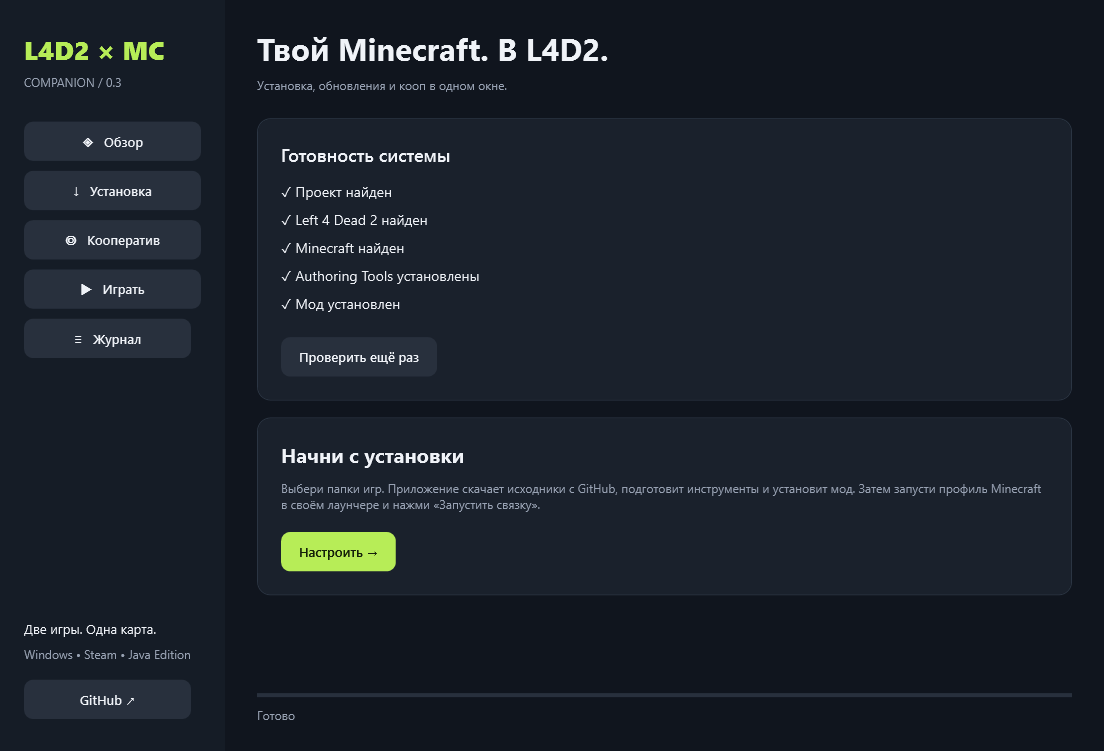
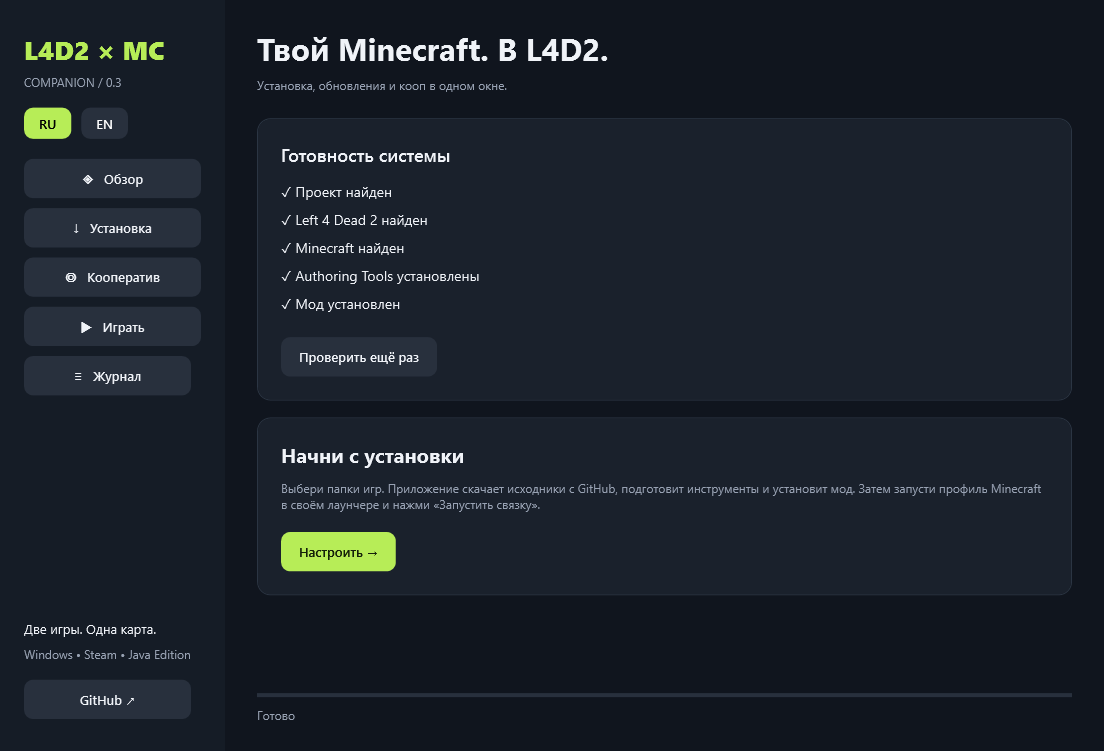
Add persistent Russian and English language switching to companion

diff --git a/companion/MainWindow.xaml b/companion/MainWindow.xaml
@@ -1,7 +1,8 @@
 <Window x:Class="L4D2MC.Companion.MainWindow" xmlns="http://schemas.microsoft.com/winfx/2006/xaml/presentation" xmlns:x="http://schemas.microsoft.com/winfx/2006/xaml" Title="L4D2 × Minecraft" Width="1120" Height="790" MinWidth="950" MinHeight="650" Background="#10151E" Foreground="#F0F3F8" WindowStartupLocation="CenterScreen">
  <Grid Background="#10151E" TextOptions.TextRenderingMode="Grayscale"><Grid.ColumnDefinitions><ColumnDefinition Width="225"/><ColumnDefinition/></Grid.ColumnDefinitions>
   <Border Background="#151C26" Padding="24,32"><DockPanel LastChildFill="True">
-   <StackPanel DockPanel.Dock="Top"><TextBlock Text="L4D2 × MC" FontSize="26" FontWeight="Black" Foreground="{StaticResource Accent}"/><TextBlock Text="COMPANION / 0.3" Style="{StaticResource Label}" Margin="0,7,0,32"/>
+   <StackPanel DockPanel.Dock="Top"><TextBlock Text="L4D2 × MC" FontSize="26" FontWeight="Black" Foreground="{StaticResource Accent}"/><TextBlock Text="COMPANION / 0.3" Style="{StaticResource Label}" Margin="0,7,0,18"/>
+    <StackPanel Orientation="Horizontal" Margin="0,0,0,20"><Button x:Name="Russian" Content="RU" Tag="ru" Click="ChangeLanguage" Padding="15,7"/><Button x:Name="English" Content="EN" Tag="en" Click="ChangeLanguage" Padding="15,7"/></StackPanel>
     <Button Content="◈   Обзор" Tag="Home" Click="Navigate" Margin="0,0,0,10"/><Button Content="↓   Установка" Tag="Install" Click="Navigate" Margin="0,0,0,10"/><Button Content="◎   Кооператив" Tag="Coop" Click="Navigate" Margin="0,0,0,10"/><Button Content="▶   Играть" Tag="Play" Click="Navigate" Margin="0,0,0,10"/><Button Content="≡   Журнал" Tag="Logs" Click="Navigate"/>
    </StackPanel><StackPanel DockPanel.Dock="Bottom" VerticalAlignment="Bottom"><TextBlock Text="Две игры. Одна карта." FontSize="13"/><TextBlock Text="Windows • Steam • Java Edition" Style="{StaticResource Label}" TextWrapping="Wrap" Margin="0,8,0,18"/><Button Content="GitHub ↗" Click="GitHub"/></StackPanel>
   </DockPanel></Border>

diff --git a/companion/MainWindow.xaml.cs b/companion/MainWindow.xaml.cs
@@ -1,4 +1,5 @@
 using System;
+using System.Collections.Generic;
 using System.Diagnostics;
 using System.IO;
 using System.Threading.Tasks;
@@ -10,30 +11,43 @@ using System.Windows.Media.Imaging;
 namespace L4D2MC.Companion {
  public partial class MainWindow : Window {
   Settings settings; bool busy; string logPath;
-  public MainWindow(){InitializeComponent(); settings=Settings.Load();Paths.Detect(settings);Directory.CreateDirectory(Settings.Data);logPath=Path.Combine(Settings.Data,"companion.log");Fill();RefreshHealth();Closing+=(s,e)=>{if(busy){e.Cancel=true;Status.Text="Дождись завершения операции. Окно можно свернуть.";}};Loaded+=Preview;}
+  readonly Dictionary<DependencyObject,string> originalText=new Dictionary<DependencyObject,string>();
+  void Localize(DependencyObject node){
+   if(node is TextBlock text && text.Name!="Health" && text.Name!="RoomState" && text.Name!="Status"){
+    if(!originalText.ContainsKey(text))originalText[text]=text.Text;
+    text.Text=Localization.Text(originalText[text]);
+   }else if(node is Button button && button.Content is string caption){
+    if(!originalText.ContainsKey(button))originalText[button]=caption;
+    button.Content=Localization.Text(originalText[button]);
+   }
+   foreach(var child in LogicalTreeHelper.GetChildren(node))if(child is DependencyObject element)Localize(element);
+  }
+  void ApplyLanguage(string language){Localization.Language=language=="en"?"en":"ru";Localize(this);Status.Text=Localization.Text(Status.Text);RefreshHealth();Russian.Background=Localization.Language=="ru"?(Brush)FindResource("Accent"):new SolidColorBrush(Color.FromRgb(40,48,61));English.Background=Localization.Language=="en"?(Brush)FindResource("Accent"):new SolidColorBrush(Color.FromRgb(40,48,61));Russian.Foreground=Localization.Language=="ru"?Brushes.Black:Brushes.White;English.Foreground=Localization.Language=="en"?Brushes.Black:Brushes.White;}
+  void ChangeLanguage(object s,RoutedEventArgs e){settings.Language=(string)((Button)s).Tag;settings.Save();ApplyLanguage(settings.Language);}
+  public MainWindow(){InitializeComponent(); settings=Settings.Load();Paths.Detect(settings);Directory.CreateDirectory(Settings.Data);logPath=Path.Combine(Settings.Data,"companion.log");Fill();ApplyLanguage(settings.Language);Closing+=(s,e)=>{if(busy){e.Cancel=true;Status.Text=Localization.Text("Дождись завершения операции. Окно можно свернуть.");}};Loaded+=Preview;}
   void Fill(){ProjectPath.Text=settings.Project;GamePath.Text=settings.Game;MinecraftPath.Text=settings.Minecraft;Player.Text=settings.Player;ViewWidth.Text=settings.Width.ToString();ViewHeight.Text=settings.Height.ToString();Address.ItemsSource=Paths.Addresses();if(Address.Items.Count>0)Address.SelectedIndex=0;}
-  void Save(){settings.Project=ProjectPath.Text.Trim();settings.Game=GamePath.Text.Trim();settings.Minecraft=MinecraftPath.Text.Trim();settings.Player=Player.Text.Trim();if(!Path.IsPathRooted(settings.Project))throw new ArgumentException("Укажи полный путь к папке проекта.");if(!int.TryParse(ViewWidth.Text,out var w)||w<320||w>3840||!int.TryParse(ViewHeight.Text,out var h)||h<240||h>2160)throw new ArgumentException("Разрешение: от 320×240 до 3840×2160.");settings.Width=w;settings.Height=h;settings.Save();}
+  void Save(){settings.Project=ProjectPath.Text.Trim();settings.Game=GamePath.Text.Trim();settings.Minecraft=MinecraftPath.Text.Trim();settings.Player=Player.Text.Trim();if(!Path.IsPathRooted(settings.Project))throw new ArgumentException(Localization.Text("Укажи полный путь к папке проекта."));if(!int.TryParse(ViewWidth.Text,out var w)||w<320||w>3840||!int.TryParse(ViewHeight.Text,out var h)||h<240||h>2160)throw new ArgumentException(Localization.Text("Разрешение: от 320×240 до 3840×2160."));settings.Width=w;settings.Height=h;settings.Save();}
   void Log(string line){Dispatcher.Invoke(()=>{LogText.AppendText(line+Environment.NewLine);LogText.ScrollToEnd();File.AppendAllText(logPath,DateTime.Now.ToString("HH:mm:ss ")+line+Environment.NewLine);});}
   Downloads Downloader()=>new Downloads(Path.Combine(Settings.Data,"downloads"),Log,v=>Dispatcher.Invoke(()=>Progress.Value=v));
-  async Task Work(string title,Func<Task> action){if(busy)return;busy=true;Status.Text=title;Progress.Value=0;try{Save();await action();Status.Text="Готово • "+title;Progress.Value=100;}catch(Exception e){Status.Text=e.Message;Log("Ошибка: "+e.Message);Show("Logs");}finally{busy=false;RefreshHealth();}}
+  async Task Work(string title,Func<Task> action){if(busy)return;busy=true;Status.Text=title;Progress.Value=0;try{Save();await action();Status.Text=Localization.Text("Готово • ")+Localization.Text(title);Progress.Value=100;}catch(Exception e){Status.Text=e.Message;Log(Localization.Text("Ошибка: ")+e.Message);Show("Logs");}finally{busy=false;RefreshHealth();}}
   void Show(string page){foreach(var p in new[]{Home,Install,Coop,Play,Logs})p.Visibility=p.Name==page?Visibility.Visible:Visibility.Collapsed;}
   void Navigate(object s,RoutedEventArgs e)=>Show((string)((Button)s).Tag);
-  void RefreshHealth(){Health.Text=(Paths.Project(settings.Project)?"✓ Проект найден":"○ Проект ещё не скачан")+"\n"+(Paths.Game(settings.Game)?"✓ Left 4 Dead 2 найден":"○ Укажи папку Left 4 Dead 2")+"\n"+(Paths.Minecraft(settings.Minecraft)?"✓ Minecraft найден":"○ Укажи папку Minecraft")+"\n"+(File.Exists(Path.Combine(settings.Game??"","bin","studiomdl.exe"))?"✓ Authoring Tools установлены":"○ Нужны Steam Authoring Tools")+"\n"+(File.Exists(Path.Combine(settings.Project,"backups","passthrough-install.json"))?"✓ Мод установлен":"○ Мод ещё не установлен");RoomState.Text=Room.Describe(settings.Project);}
+  void RefreshHealth(){Health.Text=(Paths.Project(settings.Project)?Localization.Text("✓ Проект найден"):Localization.Text("○ Проект ещё не скачан"))+"\n"+(Paths.Game(settings.Game)?Localization.Text("✓ Left 4 Dead 2 найден"):Localization.Text("○ Укажи папку Left 4 Dead 2"))+"\n"+(Paths.Minecraft(settings.Minecraft)?Localization.Text("✓ Minecraft найден"):Localization.Text("○ Укажи папку Minecraft"))+"\n"+(File.Exists(Path.Combine(settings.Game??"","bin","studiomdl.exe"))?Localization.Text("✓ Authoring Tools установлены"):Localization.Text("○ Нужны Steam Authoring Tools"))+"\n"+(File.Exists(Path.Combine(settings.Project,"backups","passthrough-install.json"))?Localization.Text("✓ Мод установлен"):Localization.Text("○ Мод ещё не установлен"));RoomState.Text=Room.Describe(settings.Project);}
   void Refresh(object s,RoutedEventArgs e){if(busy)return;try{Save();RefreshHealth();}catch(Exception ex){Status.Text=ex.Message;}}
   void Detect(object s,RoutedEventArgs e){if(busy)return;Paths.Detect(settings);Fill();RefreshHealth();}
-  void Browse(object s,RoutedEventArgs e){if(busy)return;using(var dialog=new System.Windows.Forms.FolderBrowserDialog()){dialog.Description="Выбери папку";if(dialog.ShowDialog()==System.Windows.Forms.DialogResult.OK){var tag=(string)((Button)s).Tag;(tag=="Project"?ProjectPath:tag=="Game"?GamePath:MinecraftPath).Text=dialog.SelectedPath;}}}
-  async void Download(object s,RoutedEventArgs e)=>await Work("Обновление проекта",()=>Downloader().DownloadProject(settings.Project));
-  async void InstallMod(object s,RoutedEventArgs e)=>await Work("Установка мода",async()=>{if(!Paths.Project(settings.Project))await Downloader().DownloadProject(settings.Project);await new Bootstrap(settings,Downloader(),Log).Install();});
-  async void HostRoom(object s,RoutedEventArgs e)=>await Work("Комната создана",()=>{RequireProject();Clipboard.SetText(Room.Create(settings.Project,Address.Text.Trim()));Log("Приглашение скопировано. Передай его другу в общей LAN/VPN сети.");return Task.CompletedTask;});
-  async void JoinRoom(object s,RoutedEventArgs e)=>await Work("Подключение сохранено",()=>{RequireProject();Room.Join(settings.Project,Invite.Password,settings.Player);Invite.Clear();Log("Режим гостя сохранён для твоего ника: "+settings.Player);return Task.CompletedTask;});
-  async void Solo(object s,RoutedEventArgs e)=>await Work("Одиночный режим",()=>{RequireProject();Room.Off(settings.Project);return Task.CompletedTask;});
-  void RequireProject(){if(!Paths.Project(settings.Project))throw new InvalidOperationException("Сначала скачай проект в разделе установки.");}
-  async void Launch(object s,RoutedEventArgs e)=>await Work("Мост работает",async()=>{RequireProject();if(!File.Exists(Path.Combine(settings.Project,"backups","passthrough-install.json")))throw new InvalidOperationException("Сначала установи мод.");Show("Logs");await new Bootstrap(settings,Downloader(),Log).LaunchRunner().Run("powershell.exe","-NoProfile","-ExecutionPolicy","Bypass","-File",Path.Combine(settings.Project,"Launch-Minecraft.ps1"),"-Game",settings.Game,"-Width",settings.Width.ToString(),"-Height",settings.Height.ToString(),"-Borderless");});
+  void Browse(object s,RoutedEventArgs e){if(busy)return;using(var dialog=new System.Windows.Forms.FolderBrowserDialog()){dialog.Description=Localization.Text("Выбери папку");if(dialog.ShowDialog()==System.Windows.Forms.DialogResult.OK){var tag=(string)((Button)s).Tag;(tag=="Project"?ProjectPath:tag=="Game"?GamePath:MinecraftPath).Text=dialog.SelectedPath;}}}
+  async void Download(object s,RoutedEventArgs e)=>await Work(Localization.Text("Обновление проекта"),()=>Downloader().DownloadProject(settings.Project));
+  async void InstallMod(object s,RoutedEventArgs e)=>await Work(Localization.Text("Установка мода"),async()=>{if(!Paths.Project(settings.Project))await Downloader().DownloadProject(settings.Project);await new Bootstrap(settings,Downloader(),Log).Install();});
+  async void HostRoom(object s,RoutedEventArgs e)=>await Work(Localization.Text("Комната создана"),()=>{RequireProject();Clipboard.SetText(Room.Create(settings.Project,Address.Text.Trim()));Log(Localization.Text("Приглашение скопировано. Передай его другу в общей LAN/VPN сети."));return Task.CompletedTask;});
+  async void JoinRoom(object s,RoutedEventArgs e)=>await Work(Localization.Text("Подключение сохранено"),()=>{RequireProject();Room.Join(settings.Project,Invite.Password,settings.Player);Invite.Clear();Log(Localization.Text("Режим гостя сохранён для твоего ника: ")+settings.Player);return Task.CompletedTask;});
+  async void Solo(object s,RoutedEventArgs e)=>await Work(Localization.Text("Одиночный режим"),()=>{RequireProject();Room.Off(settings.Project);return Task.CompletedTask;});
+  void RequireProject(){if(!Paths.Project(settings.Project))throw new InvalidOperationException(Localization.Text("Сначала скачай проект в разделе установки."));}
+  async void Launch(object s,RoutedEventArgs e)=>await Work(Localization.Text("Мост работает"),async()=>{RequireProject();if(!File.Exists(Path.Combine(settings.Project,"backups","passthrough-install.json")))throw new InvalidOperationException(Localization.Text("Сначала установи мод."));Show("Logs");await new Bootstrap(settings,Downloader(),Log).LaunchRunner().Run("powershell.exe","-NoProfile","-ExecutionPolicy","Bypass","-File",Path.Combine(settings.Project,"Launch-Minecraft.ps1"),"-Game",settings.Game,"-Width",settings.Width.ToString(),"-Height",settings.Height.ToString(),"-Borderless");});
   static void Open(string target)=>Process.Start(new ProcessStartInfo(target){UseShellExecute=true});
   void GitHub(object s,RoutedEventArgs e)=>Open("https://github.com/Rizen1322/l4d2-minecraft");
   void Authoring(object s,RoutedEventArgs e)=>Open("steam://install/563");
-  void OpenMinecraft(object s,RoutedEventArgs e){var legacy=Path.Combine(Environment.GetFolderPath(Environment.SpecialFolder.ApplicationData),@".tlauncher\legacy\Minecraft\LL.exe");if(File.Exists(legacy))Open(legacy);else if(Directory.Exists(MinecraftPath.Text))Open(MinecraftPath.Text);else Status.Text="Укажи папку Minecraft в разделе установки.";}
+  void OpenMinecraft(object s,RoutedEventArgs e){var legacy=Path.Combine(Environment.GetFolderPath(Environment.SpecialFolder.ApplicationData),@".tlauncher\legacy\Minecraft\LL.exe");if(File.Exists(legacy))Open(legacy);else if(Directory.Exists(MinecraftPath.Text))Open(MinecraftPath.Text);else Status.Text=Localization.Text("Укажи папку Minecraft в разделе установки.");}
   void OpenLog(object s,RoutedEventArgs e){if(File.Exists(logPath))Open(logPath);}
-  void Preview(object s,RoutedEventArgs e){var args=Environment.GetCommandLineArgs();if(args.Length==3&&args[1]=="--preview"){Dispatcher.BeginInvoke(new Action(()=>{UpdateLayout();var visual=(FrameworkElement)Content;var bmp=new RenderTargetBitmap((int)visual.ActualWidth,(int)visual.ActualHeight,96,96,PixelFormats.Pbgra32);bmp.Render(visual);var png=new PngBitmapEncoder();png.Frames.Add(BitmapFrame.Create(bmp));using(var stream=File.Create(args[2]))png.Save(stream);Close();}),System.Windows.Threading.DispatcherPriority.ApplicationIdle);}}
+  void Preview(object s,RoutedEventArgs e){var args=Environment.GetCommandLineArgs();if(args.Length>=3&&args[1]=="--preview"){if(args.Length>=4)ApplyLanguage(args[3]);if(args.Length>=5)Show(args[4]);Dispatcher.BeginInvoke(new Action(()=>{UpdateLayout();var visual=(FrameworkElement)Content;var bmp=new RenderTargetBitmap((int)visual.ActualWidth,(int)visual.ActualHeight,96,96,PixelFormats.Pbgra32);bmp.Render(visual);var png=new PngBitmapEncoder();png.Frames.Add(BitmapFrame.Create(bmp));using(var stream=File.Create(args[2]))png.Save(stream);Close();}),System.Windows.Threading.DispatcherPriority.ApplicationIdle);}}
  }
 }

diff --git a/companion/Services/Localization.cs b/companion/Services/Localization.cs
@@ -1,0 +1,120 @@
+using System;
+using System.Collections.Generic;
+using System.Linq;
+
+namespace L4D2MC.Companion {
+ public static class Localization {
+  public static string Language="ru";
+  public static readonly IReadOnlyDictionary<string,string> English = Catalog.Split(new[]{'\r','\n'},StringSplitOptions.RemoveEmptyEntries).Select(l=>l.Split('|')).ToDictionary(p=>p[0],p=>p[1]);
+  static readonly KeyValuePair<string,string>[] Pairs=English.OrderByDescending(p=>Math.Max(p.Key.Length,p.Value.Length)).ToArray();
+  public static string Text(string value){
+   if(value==null)return null;
+   if(value.StartsWith("Готово • ",StringComparison.Ordinal)||value.StartsWith("Done • ",StringComparison.Ordinal))
+    return (Language=="en"?"Done • ":"Готово • ")+Text(value.Substring(value.IndexOf(" • ",StringComparison.Ordinal)+3));
+   // Accept either language so a visible status can switch without restarting a task.
+   foreach(var p in Pairs){
+    if(value.StartsWith(p.Key,StringComparison.Ordinal))return Language=="en"?p.Value+value.Substring(p.Key.Length):value;
+    if(value.StartsWith(p.Value,StringComparison.Ordinal))return Language=="en"?value:p.Key+value.Substring(p.Value.Length);
+   }
+   return value;
+  }
+  const string Catalog=@"1 / Запусти Minecraft|1 / Start Minecraft
+2 / Запусти связку|2 / Start the mashup
+Left 4 Dead 2 · папка с left4dead2.exe|Left 4 Dead 2 · folder containing left4dead2.exe
+Minecraft · папка с versions|Minecraft · folder containing versions
+Python, Java, Zig, ReShade и Squirrel готовы.|Python, Java, Zig, ReShade and Squirrel are ready.
+Архив превышает допустимый размер.|The archive exceeds the size limit.
+Архив пытается выйти за папку установки.|The archive tries to escape the installation folder.
+Архив содержит личные данные.|The archive contains private data.
+В папке установки обнаружена ссылка на другой каталог.|The installation folder contains a directory link.
+В своём лаунчере выбери L4D2MC-Fabric-26.3. Используй обычный вход в аккаунт. Приложение не запрашивает пароль Minecraft.|Select L4D2MC-Fabric-26.3 in your launcher and sign in normally. This app does not ask for your Minecraft password.
+Вернуться в одиночный режим|Switch to solo mode
+Версия проекта: |Project version: 
+Выбери адрес общей LAN/VPN сети. Приглашение содержит ключ комнаты — отправь его только другу.|Choose your shared LAN/VPN address. The invitation contains the room key — share it only with your friend.
+Выбери папки игр. Приложение скачает исходники с GitHub, подготовит инструменты и установит мод. Затем запусти профиль Minecraft в своём лаунчере и нажми «Запустить связку».|Choose your game folders. The app downloads the source from GitHub, prepares the tools and installs the mod. Then start the Minecraft profile in your launcher and click Start the mashup.
+Выбери папку|Choose a folder
+Высота|Height
+Готовность системы|System readiness
+Готово • |Done • 
+Готово|Ready
+Две игры. Одна карта.|Two games. One map.
+Для мода нужна отдельная папка проекта, не папка игры.|Choose a separate project folder, not a game folder.
+Дождись завершения операции. Окно можно свернуть.|Wait for the operation to finish. You can minimize this window.
+Журнал|Log
+Идём вдвоём|Better together
+Исходники проверены и обновлены. Сохранения и настройки комнаты сохранены.|Source verified and updated. Saves and room settings were preserved.
+Комната создана|Room created
+Контрольная сумма не совпадает: |Checksum mismatch: 
+Мост и L4D2 запустятся вместе. В коопе автоматически используется сохранённая комната. Оставь это окно открытым во время игры.|The bridge and L4D2 start together. Co-op uses your saved room settings. Keep this window open while playing.
+Мост работает|Bridge running
+На GitHub пока нет исходников с контрольной суммой.|No source release with a checksum was found on GitHub.
+Найти автоматически|Detect automatically
+Настроить →|Set up →
+Начни с установки|Start with setup
+Небезопасный путь архива.|Unsafe archive path.
+Нужны купленные игры и официальные L4D2 Authoring Tools. Перед установкой закрой обе игры. Инструменты скачиваются в папку проекта; аудио и текстуры берутся из твоих игр.|You need your own games and official L4D2 Authoring Tools. Close both games before installation. Tools are downloaded into the project; audio and textures come from your installed games.
+Обновление проекта|Updating project
+Одиночный режим|Solo mode
+Одиночная игра|Solo game
+Хост комнаты|Room host
+Гость • |Guest • 
+Открыть Minecraft / лаунчер|Open Minecraft / launcher
+Открыть файл журнала|Open log file
+Ошибка: |Error: 
+Папка установки не должна быть ссылкой.|The installation folder must not be a directory link.
+Папки|Folders
+Повреждён файл исходников: |Damaged source file: 
+Подключение сохранено|Connection saved
+Поехали|Let's play
+Приглашение скопировано. Передай его другу в общей LAN/VPN сети.|Invitation copied. Share it with your friend on the same LAN/VPN.
+Приглашение|Invitation
+Присоединиться к другу|Join a friend
+Проверить ещё раз|Check again
+Проект мода · отдельная папка|Mod project · separate folder
+Разрешение: от 320×240 до 3840×2160.|Resolution must be between 320×240 and 3840×2160.
+Режим гостя сохранён для твоего ника: |Guest mode saved for your nickname: 
+Скачать / обновить проект|Download / update project
+Скачать → собрать → установить|Download → build → install
+Скачивание оборвалось. Повторите попытку.|Download interrupted. Please try again.
+Скачивание: |Downloading: 
+Сначала скачай проект в разделе установки.|Download the project in Setup first.
+Сначала установи мод.|Install the mod first.
+Сначала установите Left 4 Dead 2 Authoring Tools в Steam. Кнопка есть в разделе установки.|Install Left 4 Dead 2 Authoring Tools in Steam first. The button is on the Setup page.
+Создать и скопировать приглашение|Create and copy invitation
+Создать комнату|Host a room
+Сохранить подключение|Save connection
+Твой Minecraft. В L4D2.|Your Minecraft. Inside L4D2.
+Твой собственный ник в L4D2 · не ник хоста|Your own L4D2 nickname · not the host's name
+Укажи папку Minecraft в разделе установки.|Choose your Minecraft folder in Setup.
+Укажи полный путь к папке проекта.|Enter an absolute path to the project folder.
+Укажите папки L4D2 и Minecraft.|Choose the L4D2 and Minecraft folders.
+Установить мод|Install mod
+Установка и обновления|Setup and updates
+Установка мода|Installing mod
+Установка, обновления и кооп в одном окне.|Setup, updates and co-op in one window.
+Шаг завершился с ошибкой |Operation failed with exit code 
+. Подробности — в журнале.|. See the log for details.
+Ширина|Width
+↓   Установка|↓   Setup
+≡   Журнал|≡   Log
+▶   Играть|▶   Play
+▶  Запустить связку|▶  Start the mashup
+◈   Обзор|◈   Overview
+○ Мод ещё не установлен|○ Mod not installed yet
+○ Нужны Steam Authoring Tools|○ Steam Authoring Tools required
+○ Проект ещё не скачан|○ Project not downloaded yet
+○ Укажи папку Left 4 Dead 2|○ Choose your Left 4 Dead 2 folder
+○ Укажи папку Minecraft|○ Choose your Minecraft folder
+◎   Кооператив|◎   Co-op
+✓ Authoring Tools установлены|✓ Authoring Tools installed
+✓ Left 4 Dead 2 найден|✓ Left 4 Dead 2 found
+✓ Minecraft найден|✓ Minecraft found
+✓ Мод установлен|✓ Mod installed
+✓ Проект найден|✓ Project found
+Выберите IPv4-адрес вашей LAN/VPN сети.|Choose an IPv4 address on your LAN/VPN.
+Введите собственный ник из L4D2.|Enter your own L4D2 nickname.
+Слишком длинное приглашение.|The invitation is too long.
+Не удалось прочитать код приглашения.|Could not read the invitation code.
+Некорректное приглашение.|Invalid invitation.";
+ }
+}

diff --git a/companion/Services/Core.cs b/companion/Services/Core.cs
@@ -18,6 +18,7 @@ namespace L4D2MC.Companion {
         public string Game {get;set;}="";
         public string Minecraft {get;set;}="";
         public string Player {get;set;}="";
+        public string Language {get;set;}="ru";
         public int Width {get;set;}=2560;
         public int Height {get;set;}=1440;
         public static string Data=Path.Combine(Environment.GetFolderPath(Environment.SpecialFolder.LocalApplicationData),"L4D2MC");
@@ -38,13 +39,13 @@ namespace L4D2MC.Companion {
         public static bool Minecraft(string p)=>!string.IsNullOrWhiteSpace(p)&&Directory.Exists(Path.Combine(p,"versions"));
         public static bool Project(string p)=>!string.IsNullOrWhiteSpace(p)&&File.Exists(Path.Combine(p,"Setup-L4D2MC.ps1"))&&File.Exists(Path.Combine(p,"passthrough","bridge.py"));
         public static string Child(string root,string relative) {
-            if(string.IsNullOrWhiteSpace(relative)||Path.IsPathRooted(relative)||relative.Contains(":"))throw new InvalidDataException("Небезопасный путь архива.");
+            if(string.IsNullOrWhiteSpace(relative)||Path.IsPathRooted(relative)||relative.Contains(":"))throw new InvalidDataException(Localization.Text("Небезопасный путь архива."));
             var basis=Path.GetFullPath(root).TrimEnd(Path.DirectorySeparatorChar)+Path.DirectorySeparatorChar;
-            if(Directory.Exists(root)&&(File.GetAttributes(root)&FileAttributes.ReparsePoint)!=0)throw new InvalidDataException("Папка установки не должна быть ссылкой.");
+            if(Directory.Exists(root)&&(File.GetAttributes(root)&FileAttributes.ReparsePoint)!=0)throw new InvalidDataException(Localization.Text("Папка установки не должна быть ссылкой."));
             var value=Path.GetFullPath(Path.Combine(basis,relative));
-            if(!value.StartsWith(basis,StringComparison.OrdinalIgnoreCase))throw new InvalidDataException("Архив пытается выйти за папку установки.");
+            if(!value.StartsWith(basis,StringComparison.OrdinalIgnoreCase))throw new InvalidDataException(Localization.Text("Архив пытается выйти за папку установки."));
             for(var p=Path.GetDirectoryName(value);p!=null&&p.StartsWith(basis,StringComparison.OrdinalIgnoreCase);p=Path.GetDirectoryName(p))
-                if(Directory.Exists(p)&&(File.GetAttributes(p)&FileAttributes.ReparsePoint)!=0)throw new InvalidDataException("В папке установки обнаружена ссылка на другой каталог.");
+                if(Directory.Exists(p)&&(File.GetAttributes(p)&FileAttributes.ReparsePoint)!=0)throw new InvalidDataException(Localization.Text("В папке установки обнаружена ссылка на другой каталог."));
             return value;
         }
         public static string Hash(string path){using(var stream=File.OpenRead(path))using(var sha=SHA256.Create())return BitConverter.ToString(sha.ComputeHash(stream)).Replace("-","").ToLowerInvariant();}
@@ -68,7 +69,7 @@ namespace L4D2MC.Companion {
     }
     public static class Room {
         public static string Create(string root,string ip) {
-            if(!IPAddress.TryParse(ip,out var address)||address.AddressFamily!=System.Net.Sockets.AddressFamily.InterNetwork)throw new ArgumentException("Выберите IPv4-адрес вашей LAN/VPN сети.");
+            if(!IPAddress.TryParse(ip,out var address)||address.AddressFamily!=System.Net.Sockets.AddressFamily.InterNetwork)throw new ArgumentException(Localization.Text("Выберите IPv4-адрес вашей LAN/VPN сети."));
             var path=Path.Combine(root,"l4d2mc.coop.json");string token=null;
             try{var old=Json.Object(File.ReadAllText(path));if((string)old["mode"]=="host"&&Regex.IsMatch((string)old["token"],"^[A-Za-z0-9_-]{32,128}$"))token=(string)old["token"];}catch{}
             if(token==null){var b=new byte[32];using(var random=RandomNumberGenerator.Create())random.GetBytes(b);token=Convert.ToBase64String(b).TrimEnd('=').Replace('+','-').Replace('/','_');}
@@ -76,14 +77,14 @@ namespace L4D2MC.Companion {
             return Convert.ToBase64String(Encoding.UTF8.GetBytes("L4D2MC1|"+ip+"|"+token));
         }
         public static void Join(string root,string invite,string player) {
-            player=(player??"").Trim();if(player.Length==0||player.Length>128||player.Any(char.IsControl))throw new ArgumentException("Введите собственный ник из L4D2.");
-            if((invite??"").Length>1024)throw new ArgumentException("Слишком длинное приглашение.");
-            string[] p;try{p=Encoding.UTF8.GetString(Convert.FromBase64String(invite.Trim())).Split('|');}catch{throw new ArgumentException("Не удалось прочитать код приглашения.");}
-            if(p.Length!=3||p[0]!="L4D2MC1"||!IPAddress.TryParse(p[1],out var ip)||ip.AddressFamily!=System.Net.Sockets.AddressFamily.InterNetwork||!Regex.IsMatch(p[2],"^[A-Za-z0-9_-]{32,128}$"))throw new ArgumentException("Некорректное приглашение.");
+            player=(player??"").Trim();if(player.Length==0||player.Length>128||player.Any(char.IsControl))throw new ArgumentException(Localization.Text("Введите собственный ник из L4D2."));
+            if((invite??"").Length>1024)throw new ArgumentException(Localization.Text("Слишком длинное приглашение."));
+            string[] p;try{p=Encoding.UTF8.GetString(Convert.FromBase64String(invite.Trim())).Split('|');}catch{throw new ArgumentException(Localization.Text("Не удалось прочитать код приглашения."));}
+            if(p.Length!=3||p[0]!="L4D2MC1"||!IPAddress.TryParse(p[1],out var ip)||ip.AddressFamily!=System.Net.Sockets.AddressFamily.InterNetwork||!Regex.IsMatch(p[2],"^[A-Za-z0-9_-]{32,128}$"))throw new ArgumentException(Localization.Text("Некорректное приглашение."));
             Json.Write(Path.Combine(root,"l4d2mc.coop.json"),new{mode="join",server="ws://"+p[1]+":25602",l4d2server=p[1]+":27015",player,token=p[2]});
         }
         public static void Off(string root){var p=Path.Combine(root,"l4d2mc.coop.json");if(File.Exists(p))File.Delete(p);}
-        public static string Describe(string root){try{var c=Json.Object(File.ReadAllText(Path.Combine(root,"l4d2mc.coop.json")));return (string)c["mode"]=="host"?"Хост комнаты":"Гость • "+c["player"];}catch{return "Одиночная игра";}}
+        public static string Describe(string root){try{var c=Json.Object(File.ReadAllText(Path.Combine(root,"l4d2mc.coop.json")));return (string)c["mode"]=="host"?Localization.Text("Хост комнаты"):Localization.Text("Гость • ")+c["player"];}catch{return Localization.Text("Одиночная игра");}}
     }
     public sealed class Runner {
         readonly string root;readonly Action<string> log;public string PythonDir;public string JavaHome;
@@ -108,7 +109,7 @@ namespace L4D2MC.Companion {
         public Task Run(string exe,params string[] args)=>Task.Run(()=>{
             using(var p=new Process{StartInfo=Start(exe,args)}){
                 p.OutputDataReceived+=(s,e)=>{if(e.Data!=null)log(e.Data);};p.ErrorDataReceived+=(s,e)=>{if(e.Data!=null)log(e.Data);};
-                p.Start();p.BeginOutputReadLine();p.BeginErrorReadLine();p.WaitForExit();if(p.ExitCode!=0)throw new InvalidOperationException("Шаг завершился с ошибкой "+p.ExitCode+". Подробности — в журнале.");
+                p.Start();p.BeginOutputReadLine();p.BeginErrorReadLine();p.WaitForExit();if(p.ExitCode!=0)throw new InvalidOperationException(Localization.Text("Шаг завершился с ошибкой ")+p.ExitCode+Localization.Text(". Подробности — в журнале."));
             }
         });
     }

diff --git a/companion/Services/Downloads.cs b/companion/Services/Downloads.cs
@@ -19,43 +19,43 @@ namespace L4D2MC.Companion {
         public async Task<string> File(string url,string name,string expected=null) {
             var target=Paths.Child(cache,name);
             if(System.IO.File.Exists(target)&&expected!=null&&Paths.Hash(target)==expected.ToLowerInvariant())return target;
-            log("Скачивание: "+name);var temporary=target+".part";
+            log(Localization.Text("Скачивание: ")+name);var temporary=target+".part";
             using(var response=await http.GetAsync(url,HttpCompletionOption.ResponseHeadersRead)) {
                 response.EnsureSuccessStatusCode();var length=response.Content.Headers.ContentLength??0;
                 using(var input=await response.Content.ReadAsStreamAsync())using(var output=new FileStream(temporary,FileMode.Create,FileAccess.Write,FileShare.None,81920,true)){
                     var buffer=new byte[81920];long total=0;int count;var last=DateTime.MinValue;
                     while((count=await input.ReadAsync(buffer,0,buffer.Length))>0){await output.WriteAsync(buffer,0,count);total+=count;if((DateTime.UtcNow-last).TotalMilliseconds>150){progress(length>0?100.0*total/length:0);last=DateTime.UtcNow;}}
-                    if(length>0&&total!=length)throw new IOException("Скачивание оборвалось. Повторите попытку.");
+                    if(length>0&&total!=length)throw new IOException(Localization.Text("Скачивание оборвалось. Повторите попытку."));
                 }
             }
-            if(expected!=null&&(!Regex.IsMatch(expected,"^[a-fA-F0-9]{64}$")||Paths.Hash(temporary)!=expected.ToLowerInvariant()))throw new InvalidDataException("Контрольная сумма не совпадает: "+name);
+            if(expected!=null&&(!Regex.IsMatch(expected,"^[a-fA-F0-9]{64}$")||Paths.Hash(temporary)!=expected.ToLowerInvariant()))throw new InvalidDataException(Localization.Text("Контрольная сумма не совпадает: ")+name);
             if(System.IO.File.Exists(target))System.IO.File.Delete(target);System.IO.File.Move(temporary,target);progress(100);return target;
         }
         public static void Extract(string archive,string destination) {
             Directory.CreateDirectory(destination);long bytes=0;int count=0;
             using(var zip=ZipFile.OpenRead(archive))foreach(var entry in zip.Entries){
-                if(++count>150000||(bytes+=entry.Length)>3L*1024*1024*1024)throw new InvalidDataException("Архив превышает допустимый размер.");
+                if(++count>150000||(bytes+=entry.Length)>3L*1024*1024*1024)throw new InvalidDataException(Localization.Text("Архив превышает допустимый размер."));
                 var target=Paths.Child(destination,entry.FullName.Replace('/',Path.DirectorySeparatorChar));
                 if(entry.FullName.EndsWith("/")){Directory.CreateDirectory(target);continue;}
                 Directory.CreateDirectory(Path.GetDirectoryName(target));entry.ExtractToFile(target,true);
             }
         }
         public async Task DownloadProject(string root) {
-            if(Paths.Game(root)||Paths.Minecraft(root))throw new InvalidOperationException("Для мода нужна отдельная папка проекта, не папка игры.");
+            if(Paths.Game(root)||Paths.Minecraft(root))throw new InvalidOperationException(Localization.Text("Для мода нужна отдельная папка проекта, не папка игры."));
             var releases=Arr(await Api("https://api.github.com/repos/Rizen1322/l4d2-minecraft/releases?per_page=20"));
             Dictionary<string,object> source=null,checksum=null;string tag=null;
             foreach(var releaseValue in releases){var release=Obj(releaseValue);if((bool)release["draft"])continue;var assets=Arr(release["assets"]).Select(Obj).ToArray();source=assets.FirstOrDefault(a=>((string)a["name"]).EndsWith("-source.zip"));if(source==null)continue;checksum=assets.FirstOrDefault(a=>(string)a["name"]==(string)source["name"]+".sha256");if(checksum!=null){tag=(string)release["tag_name"];break;}}
-            if(source==null||checksum==null)throw new InvalidDataException("На GitHub пока нет исходников с контрольной суммой.");
-            log("Версия проекта: "+tag);
+            if(source==null||checksum==null)throw new InvalidDataException(Localization.Text("На GitHub пока нет исходников с контрольной суммой."));
+            log(Localization.Text("Версия проекта: ")+tag);
             var checksumFile=await File((string)checksum["browser_download_url"],"source.sha256");
             var sha=System.IO.File.ReadAllText(checksumFile).Split(new[]{' ','\r','\n','\t'},StringSplitOptions.RemoveEmptyEntries)[0];
             var archive=await File((string)source["browser_download_url"],"source.zip",sha);
             var staging=Path.Combine(cache,"source-"+Guid.NewGuid().ToString("N"));Extract(archive,staging);
             var payload=Path.Combine(staging,"l4d2-minecraft");var manifest=Json.Object(System.IO.File.ReadAllText(Path.Combine(payload,"SOURCE-MANIFEST.json")));
             // Validate every file before replacing any existing source. Personal data is never a payload.
-            foreach(var row in manifest){var file=Paths.Child(payload,row.Key);if(Paths.Hash(file)!=(string)row.Value)throw new InvalidDataException("Повреждён файл исходников: "+row.Key);var parts=row.Key.Replace('\\','/').Split('/');if(parts.Any(p=>new[]{"backups","guest-game","evidence","toolchains"}.Contains(p))||Path.GetFileName(row.Key)=="l4d2mc.coop.json"||Path.GetFileName(row.Key)=="l4d2mc.local.json")throw new InvalidDataException("Архив содержит личные данные.");Paths.Child(root,row.Key);}
+            foreach(var row in manifest){var file=Paths.Child(payload,row.Key);if(Paths.Hash(file)!=(string)row.Value)throw new InvalidDataException(Localization.Text("Повреждён файл исходников: ")+row.Key);var parts=row.Key.Replace('\\','/').Split('/');if(parts.Any(p=>new[]{"backups","guest-game","evidence","toolchains"}.Contains(p))||Path.GetFileName(row.Key)=="l4d2mc.coop.json"||Path.GetFileName(row.Key)=="l4d2mc.local.json")throw new InvalidDataException(Localization.Text("Архив содержит личные данные."));Paths.Child(root,row.Key);}
             foreach(var row in manifest){var target=Paths.Child(root,row.Key);Directory.CreateDirectory(Path.GetDirectoryName(target));System.IO.File.Copy(Paths.Child(payload,row.Key),target,true);}
-            log("Исходники проверены и обновлены. Сохранения и настройки комнаты сохранены.");
+            log(Localization.Text("Исходники проверены и обновлены. Сохранения и настройки комнаты сохранены."));
         }
     }
 }

diff --git a/companion/tests/Program.cs b/companion/tests/Program.cs
@@ -13,12 +13,15 @@ class Program {
   if(args.Length>0&&args[0]=="--echo"){File.WriteAllText(args[1],Json.Encode(args.Skip(2).ToArray()));return;}
   var root=Path.Combine(Path.GetTempPath(),"L4D2MC test "+Guid.NewGuid().ToString("N"));Directory.CreateDirectory(root);
   try{
+   foreach(var pair in Localization.English){Localization.Language="en";Check(Localization.Text(pair.Key)==pair.Value,"Missing English text: "+pair.Key);Localization.Language="ru";Check(Localization.Text(pair.Value)==pair.Key,"Language round trip failed: "+pair.Key);}
+   Localization.Language="en";Check(Localization.Text("Скачивание: source.zip")=="Downloading: source.zip","Dynamic download message lost its suffix");Check(Localization.Text("Готово • Комната создана")=="Done • Room created","Completed status only translated halfway");Localization.Language="ru";Check(Localization.Text("Done • Room created")=="Готово • Комната создана","Completed status did not switch back");
+   var oldData=Settings.Data;try{Settings.Data=Path.Combine(root,"settings");new Settings{Language="en",Player="Gedayo"}.Save();var restored=Settings.Load();Check(restored.Language=="en"&&restored.Player=="Gedayo","Language preference was not retained");File.WriteAllText(Path.Combine(Settings.Data,"companion.json"),"{\"Player\":\"Gedayo\"}");Check(Settings.Load().Language=="ru","Older settings were not migrated safely");}finally{Settings.Data=oldData;}
    var output=Path.Combine(root,"argv.json");var values=new[]{"",@"C:\папка с пробелом\", "one\"two", @"slashes\\\", @"E:\вин\ПРОЕКТЫ\main\l4d2-minecraft\passthrough\bridge.py"};
    var runner=new Runner(root,Console.WriteLine);runner.Run(Process.GetCurrentProcess().MainModule.FileName,new[]{"--echo",output}.Concat(values).ToArray()).GetAwaiter().GetResult();Check(values.SequenceEqual(Json.Decode<string[]>(File.ReadAllText(output))),"Process argument quoting changed values");
    foreach(var path in new[]{"../escape","C:\\escape", "file:stream"}){bool rejected=false;try{Paths.Child(root,path);}catch(InvalidDataException){rejected=true;}Check(rejected,"Unsafe path accepted: "+path);}
    var invite=Room.Create(root,"192.168.1.5");Check(invite==Room.Create(root,"192.168.1.5"),"Host token rotated unexpectedly");Room.Join(root,invite,"Gedayo");var config=Json.Object(File.ReadAllText(Path.Combine(root,"l4d2mc.coop.json")));Check((string)config["player"]=="Gedayo"&&(string)config["mode"]=="join","Guest nick/role changed");Room.Off(root);Check(Room.Describe(root)=="Одиночная игра","Room cleanup failed");
    var zip=Path.Combine(root,"evil.zip");using(var z=ZipFile.Open(zip,ZipArchiveMode.Create)){using(var w=new StreamWriter(z.CreateEntry("../escape.txt").Open()))w.Write("escape");}bool unsafeZip=false;try{Downloads.Extract(zip,Path.Combine(root,"unpack"));}catch(InvalidDataException){unsafeZip=true;}Check(unsafeZip&&!File.Exists(Path.Combine(root,"escape.txt")),"ZIP traversal escaped destination");
-   Console.WriteLine("Companion: real Unicode argv, archive traversal, host token and guest nickname passed.");
+   Console.WriteLine("Companion: bilingual text, language persistence, real Unicode argv, archive traversal, host token and guest nickname passed.");
   }finally{Directory.Delete(root,true);}
  }
 }

diff --git a/companion/Services/Bootstrap.cs b/companion/Services/Bootstrap.cs
@@ -51,11 +51,11 @@ namespace L4D2MC.Companion {
                 var args=new List<string>{"c++","-target","x86-windows-gnu","-O2","-static","-x","c++","-I",Path.Combine(squirrel,"include"),Path.Combine(squirrel,"sq","sq.c")};
                 args.AddRange(Directory.GetFiles(Path.Combine(squirrel,"squirrel"),"*.cpp"));args.AddRange(Directory.GetFiles(Path.Combine(squirrel,"sqstdlib"),"*.cpp"));args.AddRange(new[]{"-o",sq});await Runner.Run(Path.Combine(zigRoot,"zig.exe"),args.ToArray());
             }
-            log("Python, Java, Zig, ReShade и Squirrel готовы.");
+            log(Localization.Text("Python, Java, Zig, ReShade и Squirrel готовы."));
         }
         public async Task Install() {
-            if(!Paths.Game(settings.Game)||!Paths.Minecraft(settings.Minecraft))throw new InvalidOperationException("Укажите папки L4D2 и Minecraft.");
-            if(!System.IO.File.Exists(Path.Combine(settings.Game,"bin","vpk.exe"))||!System.IO.File.Exists(Path.Combine(settings.Game,"bin","studiomdl.exe")))throw new InvalidOperationException("Сначала установите Left 4 Dead 2 Authoring Tools в Steam. Кнопка есть в разделе установки.");
+            if(!Paths.Game(settings.Game)||!Paths.Minecraft(settings.Minecraft))throw new InvalidOperationException(Localization.Text("Укажите папки L4D2 и Minecraft."));
+            if(!System.IO.File.Exists(Path.Combine(settings.Game,"bin","vpk.exe"))||!System.IO.File.Exists(Path.Combine(settings.Game,"bin","studiomdl.exe")))throw new InvalidOperationException(Localization.Text("Сначала установите Left 4 Dead 2 Authoring Tools в Steam. Кнопка есть в разделе установки."));
             await Prepare();
             await Runner.Run("powershell.exe","-NoProfile","-ExecutionPolicy","Bypass","-File",Path.Combine(Root,"Setup-L4D2MC.ps1"),"-Game",settings.Game,"-Minecraft",settings.Minecraft,"-JavaHome",Runner.JavaHome,"-ReShadeDll",Path.Combine(Tools,"ReShade32.dll"),"-Zig",Path.Combine(Tools,"zig-x86_64-windows-0.15.2","zig.exe"),"-ReShadeInclude",Path.Combine(Tools,"reshade-6.8.0","include"),"-Squirrel",Path.Combine(Tools,"squirrel-parser","sq-win32.exe"));
         }

diff --git a/README.md b/README.md
@@ -52,7 +52,7 @@ Use your own copies of both games and your normal Minecraft launcher. Install th
 
 ### First setup
 
-**Desktop app:** download **L4D2MC-Companion.exe** from [Releases](https://github.com/Rizen1322/l4d2-minecraft/releases). It finds installed games, downloads and checks the project, prepares build tools, installs the mod and saves host/join settings. Requires Windows 10/11 with .NET Framework 4.8. Minecraft is still started with your own launcher. [App details and build instructions](companion/README.md).
+**Desktop app:** download **L4D2MC-Companion.exe** from [Releases](https://github.com/Rizen1322/l4d2-minecraft/releases). It finds installed games, downloads and checks the project, prepares build tools, installs the mod and saves host/join settings. Switch **RU / EN** in the sidebar; the app remembers your language. Requires Windows 10/11 with .NET Framework 4.8. Minecraft is still started with your own launcher. [App details and build instructions](companion/README.md).
 
 Sword hits on Source infected now play Minecraft attack sounds. Successful hits are confirmed by Source; duplicate network deliveries do not replay the hit sound. Audio comes from your installed Minecraft and follows its sound settings.
 

diff --git a/companion/RELEASE-NOTES.md b/companion/RELEASE-NOTES.md
@@ -1,4 +1,8 @@
-# 0.3.0 Alpha — Desktop Companion & Combat Audio
+# 0.3.1 Alpha — Russian / English Companion
+
+Switch **RU / EN** in the sidebar without restarting. Your selection is saved for the next launch. All app labels, status messages, invitations and app-generated errors support both languages. External tool logs retain their original text.
+
+This patch adds translation round-trip tests, dynamic message checks and backward compatibility for existing settings. Both WPF languages were rendered and checked, including the setup and co-op pages.
 
 Download **L4D2MC-Companion.exe** below. Run it, open **Установка**, check the detected game folders and click **Установить мод**. The app downloads this release's source archive and official build tools. Install L4D2 Authoring Tools through its Steam button if needed. Both games must be closed during installation.
 

diff --git a/companion/README.md b/companion/README.md
@@ -2,6 +2,8 @@
 
 Small Windows WPF app for the mashup. Built with .NET Framework 4.8; the distributed EXE needs no .NET SDK. Windows 10/11 with .NET Framework 4.8 is the supported desktop environment.
 
+Use **RU / EN** in the sidebar to change the language instantly. The selection is saved for the next launch. Labels, app status and app-generated errors are translated; logs emitted by external tools remain in their original language.
+
 ![Companion overview](../docs/assets/companion.png)
 
 ## What the buttons do

diff --git a/CHANGELOG.md b/CHANGELOG.md
@@ -1,5 +1,11 @@
 # Changelog
 
+## 0.3.1-alpha.1 — bilingual companion (2026-10-12)
+
+- Switch the companion interface between Russian and English without restarting.
+- Persist language selection, translate app messages and keep external tool logs intact.
+- Verify translation round trips, dynamic message suffixes and old settings compatibility.
+
 ## 0.3.0-alpha.1 — desktop companion and combat audio (2026-10-12)
 
 - Add a small Windows desktop EXE with game autodetection, verified source
